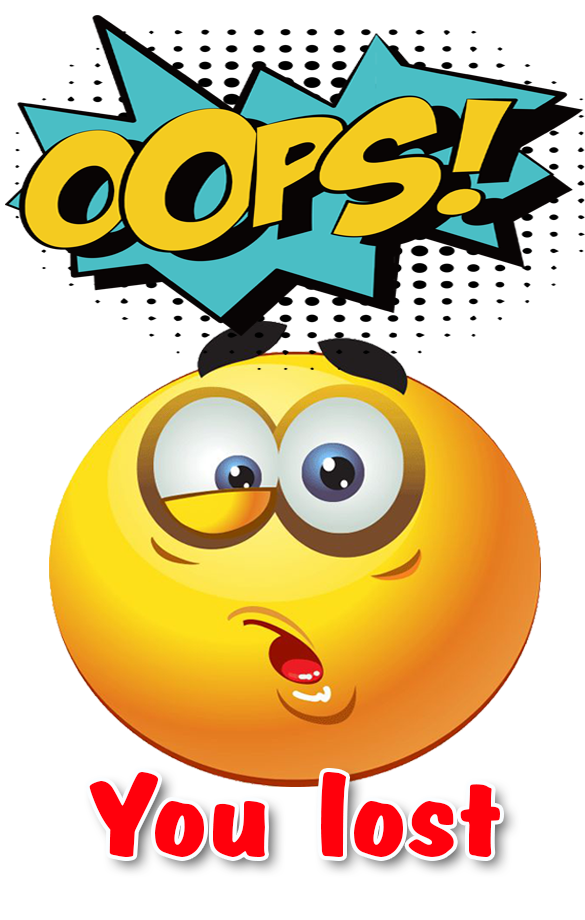
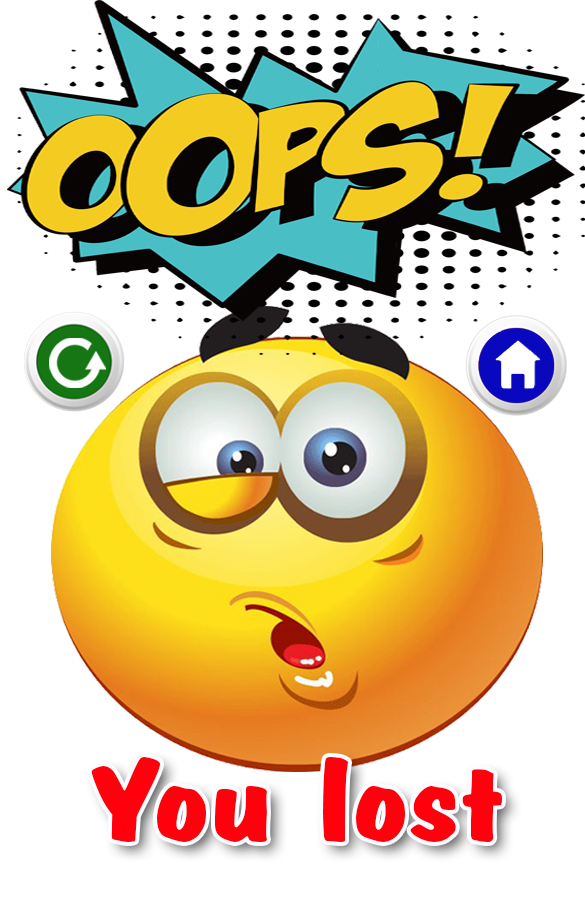
finished

diff --git a/Hangman/Hangman/main.cpp b/Hangman/Hangman/main.cpp
@@ -42,7 +42,7 @@ jump:
 				if (event.mouseButton.button == sf::Mouse::Left&&event.mouseButton.x > 229 && event.mouseButton.x < 372 && event.mouseButton.y>575 && event.mouseButton.y < 733)
 				{
 					start = true;
-					std::cout << mousepos.x << ' ' << mousepos.y << std::endl;
+					
 					Main_window.close();
 				}
 
@@ -68,7 +68,7 @@ jump:
 					if (event2.text.unicode != 8)
 						menu1.input += (char)event2.text.unicode;
 					menu1.text.setString(menu1.input);
-					std::cout << "ASCII character typed: " << static_cast<char>(event2.text.unicode) << std::endl;
+					//std::cout << "ASCII character typed: " << static_cast<char>(event2.text.unicode) << std::endl;
 				}
 				sf::Vector2i mousepos = sf::Mouse::getPosition(Start_game);
 				if (event2.type == event2.MouseButtonPressed)
@@ -93,7 +93,7 @@ jump:
 					}
 					if ((choosen && menu1.category[7].isSpriteClicked(menu1.category[7].sprite1, mousepos)) || (!menu1.input.isEmpty() && menu1.category[7].isSpriteClicked(menu1.category[7].sprite1, mousepos)))
 					{
-						std::cout << "clicked" << std::endl;
+						//std::cout << "clicked" << std::endl;
 						play = true;
 						Start_game.close();
 					}
@@ -132,7 +132,7 @@ jump:
 		{
 
 			sf::Event event3;
-			//std::cout << "x = " << event3.mouseMove.x << "y = " << event3.mouseMove.y << std::endl;
+			
 			while (Level1.pollEvent(event3))
 			{
 
@@ -173,13 +173,13 @@ jump:
 				{
 					lose = true;
 					Level1.close();
-					std::cout << "YOU LOSE";
+					//std::cout << "YOU LOSE";
 				}
 				if (chances == wLength)
 				{
 					won = true;
 					Level1.close();
-					std::cout << "YOU WIN";
+					//std::cout << "YOU WIN";
 				}
 			}
 
@@ -195,7 +195,7 @@ jump:
 
 	if (won)
 	{
-		sf::RenderWindow window(sf::VideoMode(585, 920), "YOU_WIN");
+		sf::RenderWindow window(sf::VideoMode(900,600), "YOU_WIN");
 		while (window.isOpen())
 		{
 			sf::Event event;
@@ -216,14 +216,25 @@ jump:
 	}
 	if (lose)
 	{
-		sf::RenderWindow window(sf::VideoMode(585, 920), "YOU_LOSE");
+		sf::RenderWindow window(sf::VideoMode(900,600), "YOU_LOSE");
 		while (window.isOpen())
 		{
 			sf::Event event;
+			
 			while (window.pollEvent(event))
 			{
 				if (event.type == sf::Event::Closed)
 					window.close();
+				sf::Vector2i mousepos = sf::Mouse::getPosition(window);
+				if (event.type == event.MouseButtonPressed)
+				{
+					if (event.mouseButton.button == sf::Mouse::Left)
+					{
+					//	std::cout << mousepos.x << ' ' << mousepos.y << std::endl;
+					}
+
+				}
+
 				sf::Vector2i mouseposs = sf::Mouse::getPosition(window);
 				if (event.type == event.MouseButtonPressed)
 				{

diff --git a/Hangman/Hangman/Final.cpp b/Hangman/Hangman/Final.cpp
@@ -4,14 +4,10 @@
 
 Final::Final()
 {
-	if (!wintexture.loadFromFile("images/win.png"))
-	{
-		//error
-	}
-	if (!losetexture.loadFromFile("images/lose.png"))
-	{
-		//error
-	}
+	wintexture.loadFromFile("images/background3.png");
+	wintexture2.loadFromFile("images/happy.png");
+	losetexture.loadFromFile("images/background3.png");
+	losetexture2.loadFromFile("images/HangMan (9).png");
 	if (!pAgain.loadFromFile("images/playagainbutton.png"))
 	{
 		//error
@@ -28,8 +24,8 @@ Final::Final()
 	sf::IntRect pArect(0, 0, 200, 96);
 	Again.sprite1.setTexture(pAgain);
 	Again.sprite1.setTextureRect(pArect);
-	Again.sprite1.setPosition(sf::Vector2f(190,750));
-	Again.text.setPosition(sf::Vector2f(220, 780));
+	Again.sprite1.setPosition(sf::Vector2f(190,450));
+	Again.text.setPosition(sf::Vector2f(220, 480));
 	Again.text.setString("PLAY AGAIN");
 	Again.text.setFont(font);
 	Again.text.setFillColor(sf::Color::Black);
@@ -37,11 +33,15 @@ Final::Final()
 	
 
 	win.sprite1.setTexture(wintexture);
-	win.sprite1.scale(sf::Vector2f(1,0.85));
+	win.sprite2.setTexture(wintexture2);
+	win.sprite2.setScale(0.35, 0.35);
+//	win.sprite1.scale(sf::Vector2f(1,0.85));
 	win.sprite1.setPosition(sf::Vector2f(0, 0));
-
+	win.sprite2.setPosition(sf::Vector2f(420,90));
 	lose.sprite1.setTexture(losetexture);
-	lose.sprite1.scale(sf::Vector2f(1, 0.85));
+	lose.sprite2.setTexture(losetexture2);
+	lose.sprite2.setPosition(sf::Vector2f(320,0));
+	//lose.sprite1.scale(sf::Vector2f(1, 0.85));
 	lose.sprite1.setPosition(sf::Vector2f(0, 0));
 
 
@@ -56,6 +56,7 @@ void Final::drawWin(sf::RenderWindow & window)
 {
 
 	window.draw(win.sprite1);
+	window.draw(win.sprite2);
 	window.draw(Again.sprite1);
 	window.draw(Again.text);
 }
@@ -64,6 +65,7 @@ void Final::drawLose(sf::RenderWindow & window)
 {
 	
 	window.draw(lose.sprite1);
+	window.draw(lose.sprite2);
 	window.draw(Again.sprite1);
 	window.draw(Again.text);
 }

diff --git a/Hangman/Hangman/menu.h b/Hangman/Hangman/menu.h
@@ -12,6 +12,7 @@ public:
 	void updatespr(sf::Sprite &sprite,int n, sf::RenderWindow &window);
 	void reverse(sf::Sprite &sprite, int n, sf::RenderWindow &window);
 	std::string getCategory(int n);
+
 	~menu();
 	Animation inword;
 	sf::String input;
@@ -23,6 +24,5 @@ private:
 	sf::Texture background;
 	sf::Sprite backsprite;
 	sf::Texture texture2;
-	//std::vector<sf::Texture> texture[10];
 };
 

diff --git a/Hangman/Hangman/Player.cpp b/Hangman/Hangman/Player.cpp
@@ -8,7 +8,7 @@ Player::Player()
 	{
 		//error
 	}
-	if (!background.loadFromFile("images/background2.png"))
+	if (!background.loadFromFile("images/background3.png"))
 	{
 		//error
 	}
@@ -244,6 +244,45 @@ Player::~Player()
 {
 
 }
+
+
+
+
+
+
+
+
+
+
+
+
+
+
+
+
+
+
+
+
+
+
+
+
+
+
+
+
+
+
+
+
+
+
+
+
+
+
+
 
 void Player::draw(sf::RenderWindow & window)
 {

diff --git a/Hangman/Hangman/menu.cpp b/Hangman/Hangman/menu.cpp
@@ -5,7 +5,7 @@
 menu::menu(float width,float height)
 {
 	
-	if (!background.loadFromFile("images/background1.png"))
+	if (!background.loadFromFile("images/background0.png"))
 	{
 		//error
 	}

diff --git a/Hangman/Hangman/Final.h b/Hangman/Hangman/Final.h
@@ -15,7 +15,11 @@ public:
 	
 private:
 	sf::Texture wintexture;
+	sf::Texture wintexture2;
+
 	sf::Texture losetexture;
+	sf::Texture losetexture2;
+
 	sf::Texture pAgain;
 	
 
